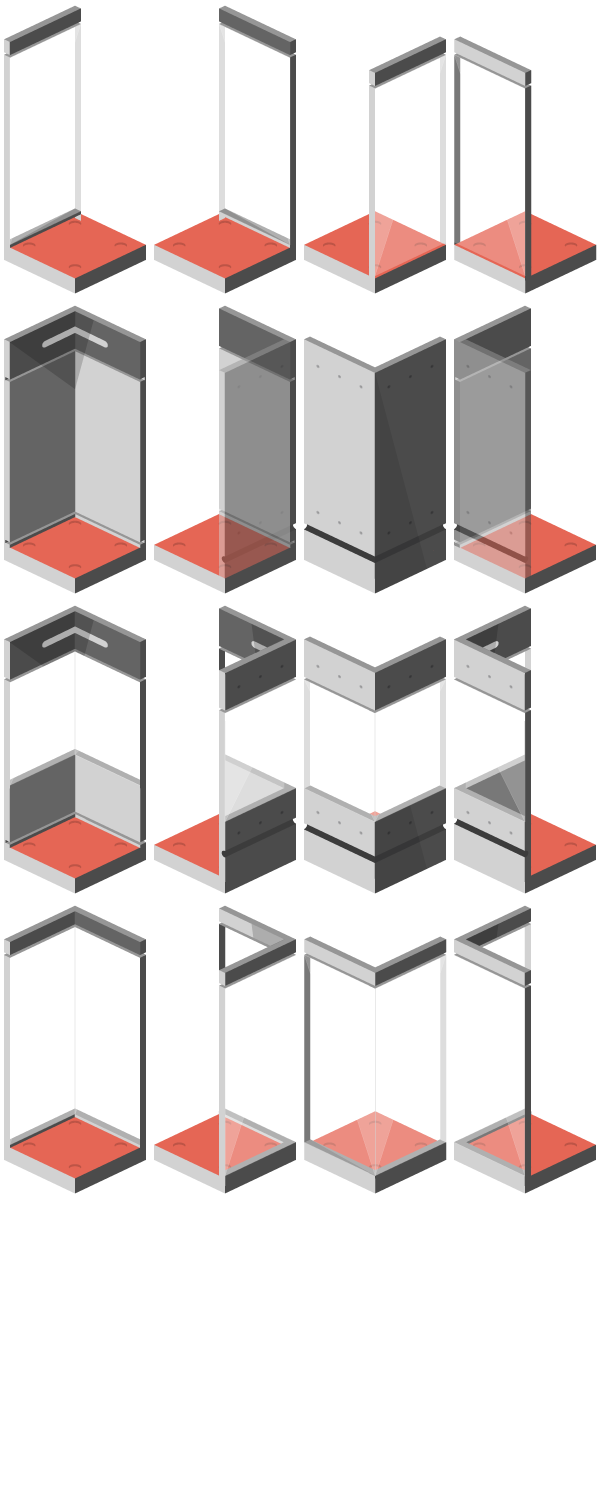
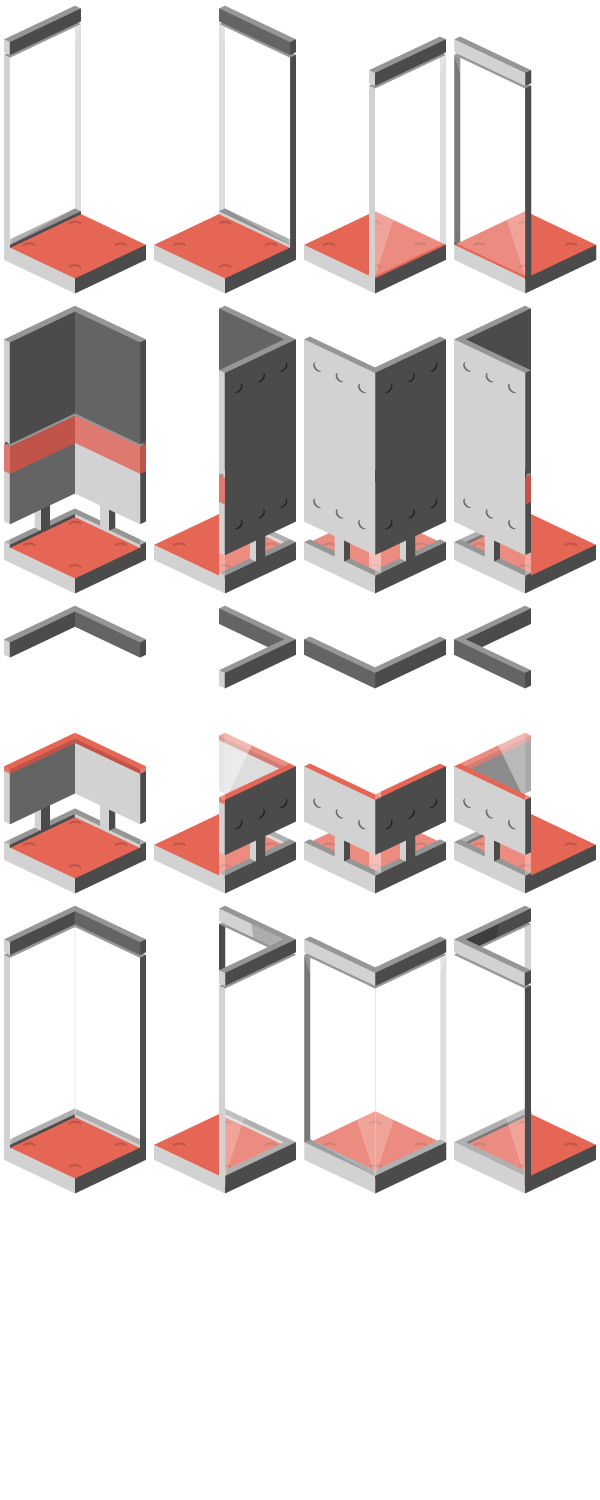
updated red textures

diff --git a/js/levels_new.js b/js/levels_new.js
@@ -76,22 +76,22 @@ floor_2[0]=[602,561,602,561,602,561,602,561,602,561,602,561,602,561,602,561,602,
 floor_2[1]=[602,602,602,602,602,602,602,602,602,602,602,602,602,602,602,602,602,602,602,602];
 floor_2[2]=[602,602,549,542,542,546,542,542,542,542,542,542,542,542,546,542,542,550,602,602];
 floor_2[3]=[570,570,541,557,601,601,601,601,601,601,601,601,601,601,601,601,558,543,570,570];
-floor_2[4]=[574,602,541,601,29,22,22,370,414,414,414,414,25,18,18,30,601,543,602,574];
-floor_2[5]=[578,602,545,601,17,2,2,,,,,0,13,2,2,19,601,547,602,578];
-floor_2[6]=[578,602,541,601,17,2,15,98,94,90,86,82,9,2,2,43,601,543,602,578];
-floor_2[7]=[578,602,541,601,17,2,15,120,116,112,108,104,2,2,2,47,601,543,602,578];
-floor_2[8]=[578,602,541,601,17,2,10,14,14,14,14,146,2,2,2,19,601,543,602,578];
-floor_2[9]=[578,602,541,601,17,2,2,2,2,2,2,2,2,2,2,19,601,543,602,578];
-floor_2[10]=[578,602,541,601,209,198,198,198,198,198,198,198,198,222,226,210,601,543,602,578];
-floor_2[11]=[578,602,541,601,197,182,182,182,182,182,182,182,182,182,182,195,601,543,602,578];
-floor_2[12]=[578,602,541,601,197,182,301,182,182,301,182,182,311,182,182,195,601,543,602,578];
-floor_2[13]=[578,602,541,601,197,182,301,182,182,301,182,182,311,182,182,195,601,543,602,578];
-floor_2[14]=[578,602,545,601,197,182,182,182,182,182,182,182,182,182,182,195,601,547,602,578];
-floor_2[15]=[578,602,541,601,212,196,196,196,196,196,196,196,196,196,196,211,601,543,602,578];
-floor_2[16]=[578,602,541,601,601,601,601,601,601,601,601,601,601,601,601,601,601,543,602,578];
-floor_2[17]=[576,602,541,601,601,601,601,601,601,601,601,601,601,601,601,601,601,543,602,576];
-floor_2[18]=[602,602,541,601,601,601,601,601,601,601,601,601,601,601,601,601,601,543,602,602];
-floor_2[19]=[602,602,541,601,601,601,601,601,601,601,601,601,601,601,601,601,601,543,602,602];
+floor_2[4]=[602,602,541,601,29,22,22,370,414,414,414,414,25,18,18,30,601,543,602,602];
+floor_2[5]=[602,602,545,601,17,2,2,,,,,0,13,2,2,19,601,547,602,602];
+floor_2[6]=[602,602,541,601,17,2,15,98,94,90,86,82,9,2,2,43,601,543,602,602];
+floor_2[7]=[602,602,541,601,17,2,15,120,116,112,108,104,2,2,2,47,601,543,602,602];
+floor_2[8]=[602,602,541,601,17,2,10,14,14,14,14,146,2,2,2,19,601,543,602,602];
+floor_2[9]=[602,602,541,601,17,2,2,2,2,2,2,2,2,2,2,19,601,543,602,602];
+floor_2[10]=[602,602,541,601,205,194,194,194,194,194,194,194,194,222,226,206,601,543,602,602];
+floor_2[11]=[602,602,541,601,193,182,182,182,182,182,182,182,182,182,182,195,601,543,602,602];
+floor_2[12]=[602,602,541,601,193,182,301,182,182,301,182,182,311,182,182,195,601,543,602,602];
+floor_2[13]=[602,602,541,601,193,182,301,182,182,301,182,182,311,182,182,195,601,543,602,602];
+floor_2[14]=[602,602,545,601,193,182,182,182,182,182,182,182,182,182,182,195,601,547,602,602];
+floor_2[15]=[602,602,541,601,208,196,196,196,196,196,196,196,196,196,196,207,601,543,602,602];
+floor_2[16]=[578,602,541,601,601,601,601,601,601,601,601,601,601,601,601,601,601,543,602,602];
+floor_2[17]=[542,542,542,553,601,601,601,601,601,601,601,601,601,601,601,601,554,542,542,542];
+floor_2[18]=[601,601,601,601,601,601,593,603,603,603,603,603,603,594,601,601,601,601,601,601];
+floor_2[19]=[601,601,601,601,601,601,601,603,603,603,603,603,603,601,601,601,601,601,601,601];
 floor_3[0]=[,,,,,,,,,,,,,,,,,,,];
 floor_3[1]=[,,,,,,,,,,,,,,,,,,,];
 floor_3[2]=[,,,,,,,,,,,,,,,,,,,];

diff --git a/js/player_move.js b/js/player_move.js
@@ -309,7 +309,8 @@ function createMapButton(o,c,f){
 					if(cos>6){
 						clearInterval(animatePlayer);
 						startFloor(c.f+1,current_dir);
-						startPlayer(f+1,color);
+						startPlayer(f+1,posA,color);
+						rotateFloorButton(f+1);
 					}
 					
 				},animPlayTime);
@@ -319,10 +320,11 @@ function createMapButton(o,c,f){
 				o.id=="a" ? v=6 : s=6;
 				/*posA.y=parseInt($(this).attr('y'))+v;
 				posA.x=parseInt($(this).attr('x'))+s;*/
-				posA.y+=v;
-				posA.x+=s;
-				startFloor(c.f-1,color);
-				$('#jugador01').css({"background-position" : 5*w+px+" "+3*h+px});
+				posA.y+=s;
+				posA.x+=v;
+				startFloor(c.f-1,current_dir);
+				startPlayer(f-1,posA,color);
+				rotateFloorButton(f-1);
 				break;
 			case 'door':
 				var corA,corB;

diff --git a/js/level_generator.js b/js/level_generator.js
@@ -281,12 +281,14 @@ $(document).ready(function(){
 	}
 	$('body').append('<div id="selection"/>');
 	
-	//startFloor(0,current_dir);
-	startFloor(0,current_dir);
+	startFloor(2,current_dir);
+	//startFloor(1,current_dir);
+	//startFloor(2,current_dir);
+	//startFloor(2,current_dir);
 	//startFloor(1,current_dir);
 	//startFloor(3,current_dir);
-	rotateFloorButton(0);
-	startPlayer(0,posA,'storage');
+	rotateFloorButton(2);
+	startPlayer(2,posA,'yellow');
 });
 
 function rotateFloorButton(f){
